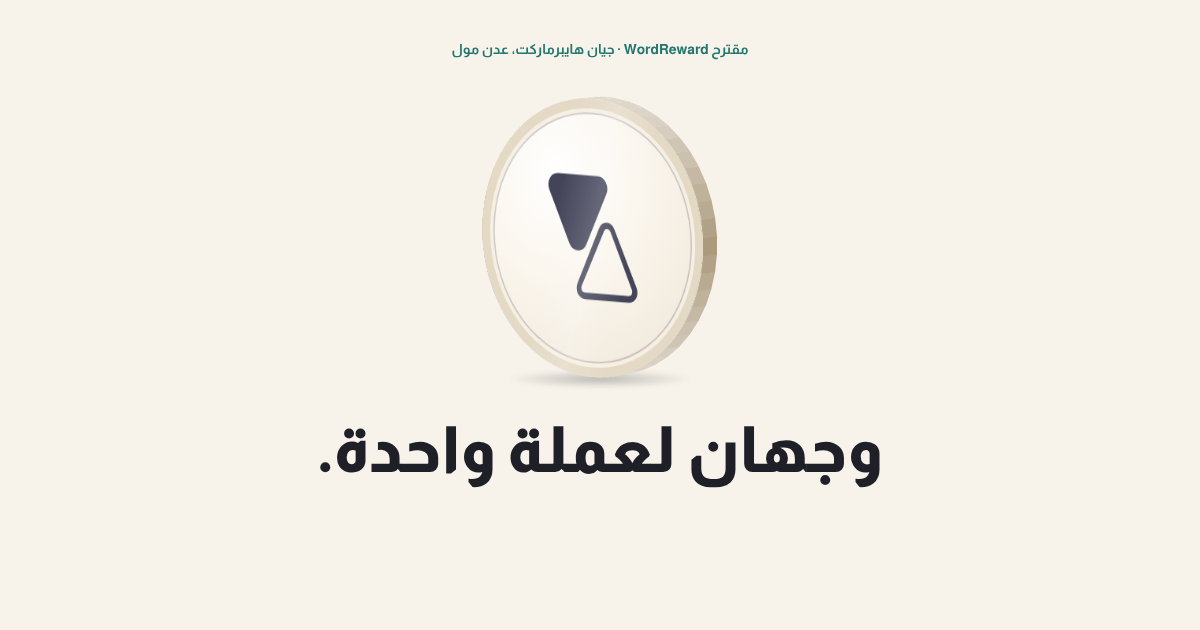
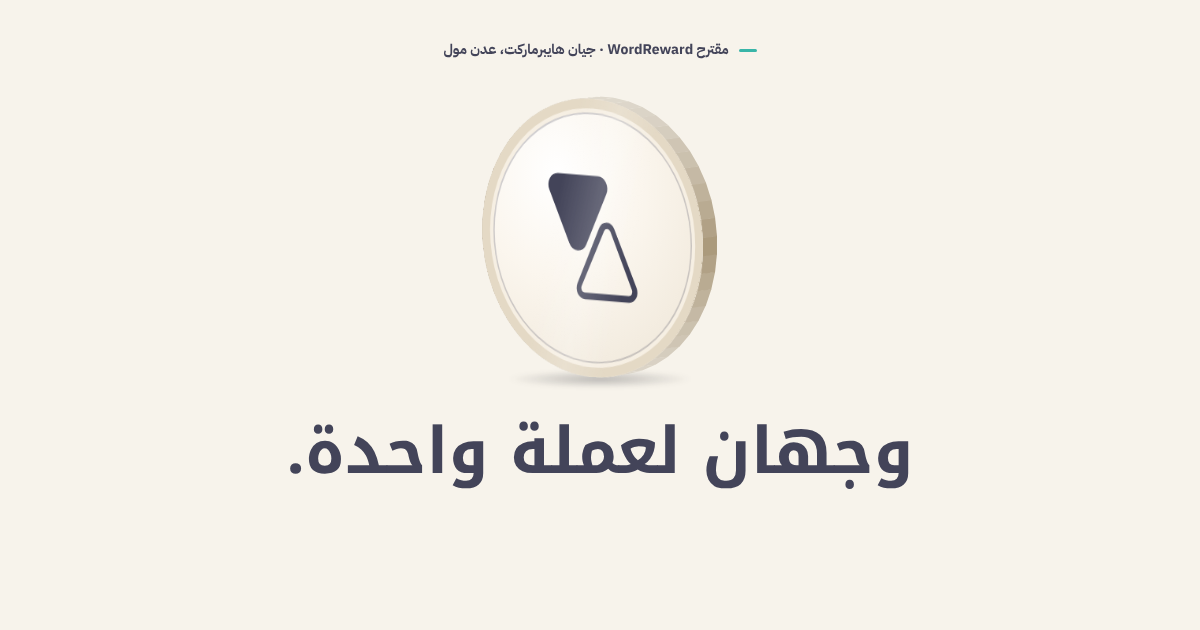
Align the Géant proposal with the canonical WRD brand spec
Fonts and colours now follow WordReward Brand Colors (Drive): IBM Plex
Sans Arabic and Noto Kufi Arabic, Poppins and a Rockwell slab for
Latin, slate text on cream with teal as the light-mode primary and
amber on the navy sections. Removes the invented darker teal. The
Géant sample cards keep Géant's own Almarai and Montserrat.

Claude-Session: https://claude.ai/code/session_014HazJnBDSzNXACr4TkL2Eb

Changed region(s): [[0.2467, 0.6635, 0.7708, 0.7841], [0.37, 0.0603, 0.6475, 0.0905]]

diff --git a/proposals/geant-yemen/index.html b/proposals/geant-yemen/index.html
@@ -22,7 +22,7 @@
     <link rel="preconnect" href="https://fonts.googleapis.com" />
     <link rel="preconnect" href="https://fonts.gstatic.com" crossorigin />
     <link
-      href="https://fonts.googleapis.com/css2?family=Almarai:wght@300;400;700;800&family=DM+Sans:opsz,wght@9..40,400;9..40,500;9..40,700&display=swap"
+      href="https://fonts.googleapis.com/css2?family=IBM+Plex+Sans+Arabic:wght@300;400;500;700&family=Noto+Kufi+Arabic:wght@600;700;800&family=Poppins:wght@400;500;600;700&family=Roboto+Slab:wght@600;700&family=Almarai:wght@400;700;800&family=Montserrat:wght@700&display=swap"
       rel="stylesheet"
     />
     <style>
@@ -35,7 +35,6 @@
         --warm: #fffcf9;
         --line: rgba(67, 68, 89, 0.14);
         --teal: #39b5a8;
-        --teal-d: #23766d;
         --amber: #ffdb8e;
 
         /* Géant colours, used only inside the sample cards */
@@ -45,8 +44,12 @@
         --g-orange: #f7a823;
         --g-yellow: #ffe418;
         --g-gold: #d9a521;
-        --ar: "Almarai", "Geeza Pro", "Noto Sans Arabic", Tahoma, sans-serif;
-        --en: "DM Sans", system-ui, -apple-system, "Segoe UI", sans-serif;
+        --ar: "IBM Plex Sans Arabic", "Geeza Pro", Tahoma, sans-serif;
+        --ar-display: "DIN Next LT Arabic", "Noto Kufi Arabic", "IBM Plex Sans Arabic", sans-serif;
+        --en: "Poppins", system-ui, -apple-system, "Segoe UI", sans-serif;
+        --g-ar: "Almarai", var(--ar);
+        --g-en: "Montserrat", var(--en);
+        --en-display: Rockwell, "Rockwell Nova", Clarendon, "Roboto Slab", Georgia, serif;
         --gutter: clamp(16px, 5vw, 48px);
       }
       * {
@@ -83,8 +86,22 @@
         font: 700 12px/1.4 var(--en);
         letter-spacing: 0.16em;
         text-transform: uppercase;
-        color: var(--teal-d);
+        color: var(--ink);
         margin: 0 0 14px;
+      }
+      .kicker::before {
+        content: "";
+        display: inline-block;
+        width: 18px;
+        height: 3px;
+        border-radius: 2px;
+        background: var(--teal);
+        vertical-align: middle;
+        margin-inline-end: 10px;
+      }
+      #week .kicker::before,
+      #plan .kicker::before {
+        background: var(--amber);
       }
       html[lang="ar"] .kicker {
         font-family: var(--ar);
@@ -95,10 +112,20 @@
       h1,
       h2,
       h3 {
-        color: var(--navy);
+        color: var(--ink);
         margin: 0;
-        font-weight: 800;
-        line-height: 1.15;
+        font-weight: 700;
+        line-height: 1.2;
+        font-family: var(--ar-display);
+      }
+      html[lang="en"] h1,
+      html[lang="en"] h2 {
+        font-family: var(--en-display);
+        font-weight: 700;
+      }
+      html[lang="en"] h3 {
+        font-family: var(--en);
+        font-weight: 600;
       }
       h2 {
         font-size: clamp(30px, 7vw, 52px);
@@ -269,12 +296,12 @@
           inset 0 0 0 calc(var(--d) * 0.056) rgba(255, 219, 142, 0.6);
       }
       .back .big {
-        font: 700 calc(var(--d) * 0.3)/1 var(--en);
+        font: 700 calc(var(--d) * 0.3)/1 var(--en-display);
         letter-spacing: -0.04em;
       }
       .back .big i {
         font-style: normal;
-        color: var(--teal);
+        color: var(--amber);
       }
       .back .small {
         font: 700 calc(var(--d) * 0.06)/1.2 var(--ar);
@@ -389,8 +416,9 @@
         transform: translateY(-2px);
       }
       .goal.on.b {
-        background: var(--teal-d);
-        border-color: var(--teal-d);
+        background: var(--teal);
+        border-color: var(--teal);
+        color: var(--ink);
       }
       .cue {
         margin-top: 6px;
@@ -503,7 +531,7 @@
         line-height: 1.3;
         color: #1d1d1d;
         direction: rtl;
-        font-family: var(--ar);
+        font-family: var(--g-ar);
       }
       .f.fr {
         --ry: 0deg;
@@ -589,7 +617,7 @@
       }
       .tally b {
         display: block;
-        font: 700 clamp(30px, 8vw, 44px)/1 var(--en);
+        font: 700 clamp(30px, 8vw, 44px)/1 var(--en-display);
         color: #fff;
       }
       .tally span {
@@ -637,7 +665,7 @@
         margin-top: 0.6em;
         box-shadow: 0 0.2em 0.6em rgba(0, 0, 0, 0.15);
         direction: ltr;
-        font-family: var(--en);
+        font-family: var(--g-en);
         font-weight: 700;
       }
       .price .old {
@@ -940,7 +968,7 @@
         background: var(--warm);
         border: 1px solid var(--line);
         text-align: center;
-        color: var(--teal-d);
+        color: var(--ink);
       }
       .pillar p {
         margin: 0;
@@ -973,7 +1001,7 @@
       }
       .m b {
         display: block;
-        font: 700 clamp(34px, 9vw, 48px)/1 var(--en);
+        font: 700 clamp(34px, 9vw, 48px)/1 var(--en-display);
         color: var(--navy);
       }
       .m span {
@@ -1044,7 +1072,7 @@
         inset-block: 8px;
         inset-inline-start: 7px;
         width: 2px;
-        background: linear-gradient(var(--teal-d), var(--teal));
+        background: linear-gradient(var(--teal), var(--amber));
       }
       .stop {
         position: relative;
@@ -1059,16 +1087,16 @@
         height: 14px;
         border-radius: 50%;
         background: var(--paper);
-        border: 3px solid var(--teal-d);
+        border: 3px solid var(--teal);
       }
       .stop:last-child::before {
-        border-color: var(--teal);
+        border-color: var(--amber);
       }
       .stop small {
         font: 700 12px/1 var(--en);
         letter-spacing: 0.12em;
         text-transform: uppercase;
-        color: var(--teal-d);
+        color: var(--ink);
       }
       html[lang="ar"] .stop small {
         font-family: var(--ar);
@@ -1122,11 +1150,11 @@
         }
       }
       .later div {
-        border-top: 3px solid var(--teal-d);
+        border-top: 3px solid var(--teal);
         padding-top: 12px;
       }
       .later div:nth-child(2) {
-        border-color: var(--teal);
+        border-color: var(--amber);
       }
       .later div:nth-child(3) {
         border-color: var(--navy);
@@ -1155,7 +1183,7 @@
       }
       #reveal .stat b {
         display: block;
-        font: 700 34px/1 var(--en);
+        font: 700 34px/1 var(--en-display);
         color: var(--navy);
       }
       #reveal .stat span {
@@ -1182,7 +1210,7 @@
         display: block;
       }
       .waiting a {
-        color: var(--teal-d);
+        color: var(--ink);
       }
 
       /* NEXT + FOOTER */

diff --git a/proposals/geant-yemen/README.md b/proposals/geant-yemen/README.md
@@ -14,6 +14,12 @@ The page is made to be touched before it is read.
 
 The interaction counts stay in the visitor's browser memory. Nothing is stored or sent anywhere.
 
+## WRD brand (source of truth)
+
+Colours and type follow "WordReward Brand Colors.md" (Drive, locked 2026-04-16): light mode cream `#f7f3eb`, slate `#434459` text, teal `#39b5a8` primary with slate text on it; dark sections navy `#1E1F27` with amber `#ffdb8e`. Arabic: IBM Plex Sans Arabic body, DIN Next LT Arabic / Noto Kufi Arabic display. Latin: Poppins body, Rockwell (Roboto Slab fallback) display. No other accent colours.
+
+The WRD mark is one colour (`#434459`): a solid triangle pointing down above an outlined triangle pointing up. The SVG here is a trace of the WRD Ads dashboard icon; swap in the official vector from `_BRAND_KIT/03_Logo_Vector` when available. The Géant sample cards keep Géant's own fonts (Almarai, Montserrat in place of Gotham).
+
 ## Before sending
 
 - [ ] **Samples.** Save the team's six redesigns and the matching originals as `assets/samples/{1A,1B,2A,2B,3A,3B}-after.png` and `...-before.png` (1A food cover, 1B food card, 2A non-food cover, 2B non-food inner page, 3A Golden Offer basket, 3B Golden Offer card). The "Before and after" section stays hidden until at least one `-after.png` exists.
@@ -25,7 +31,7 @@ The interaction counts stay in the visitor's browser memory. Nothing is stored o
 
 ## Files
 
-- `index.html`: the whole page (CSS and JS inline, fonts from Google Fonts: Almarai and DM Sans).
+- `index.html`: the whole page (CSS and JS inline, fonts from Google Fonts: IBM Plex Sans Arabic, Noto Kufi Arabic, Poppins, Roboto Slab, plus Almarai and Montserrat for the Géant cards).
 - `assets/og.png`: link preview (1200 × 630), the coin caught mid-spin. Regenerate it from `index.html?still=-38`, a frozen frame.
 - `assets/favicon.svg`: the WRD mark.
 - `assets/samples/`: before and after pairs (see above).
